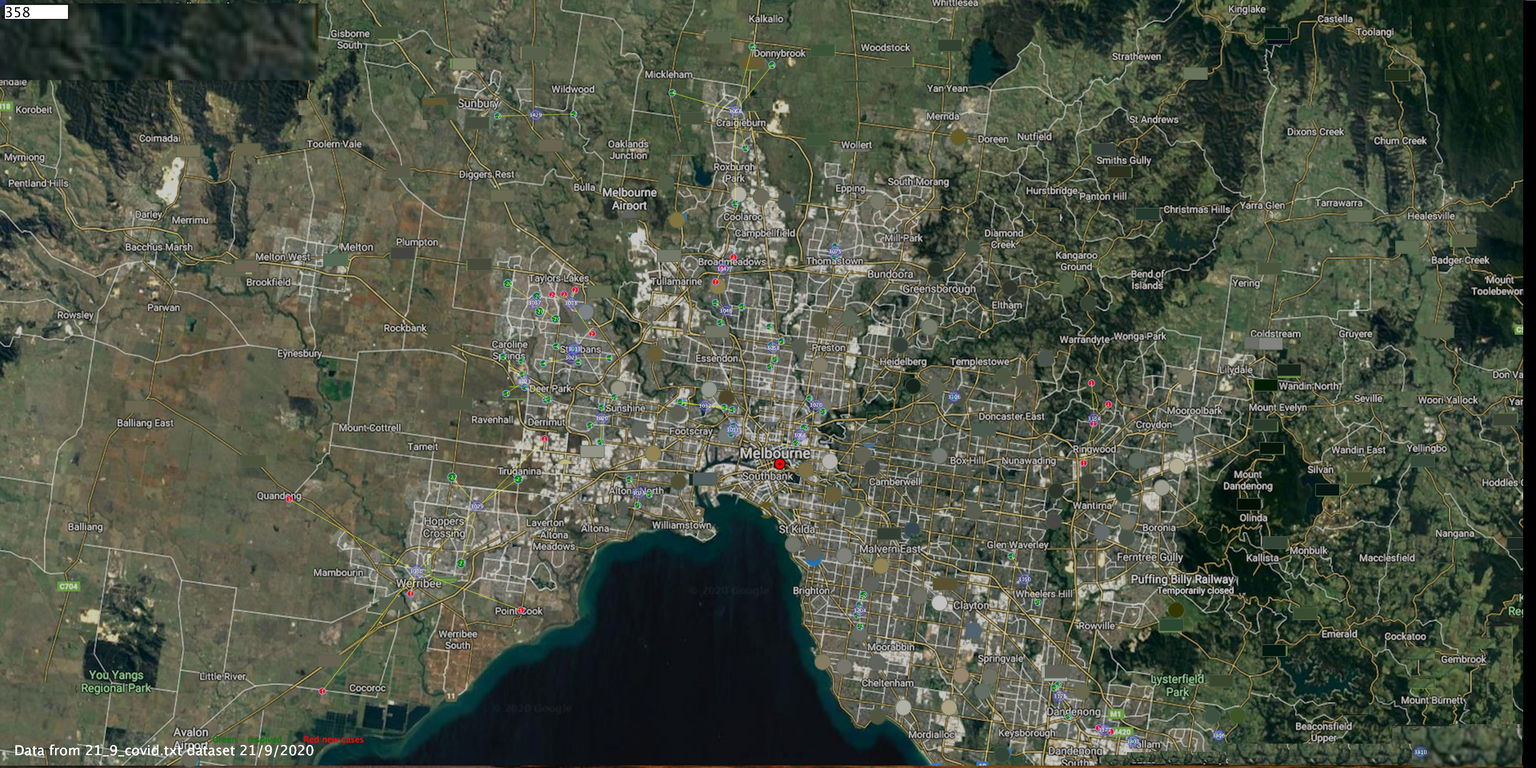
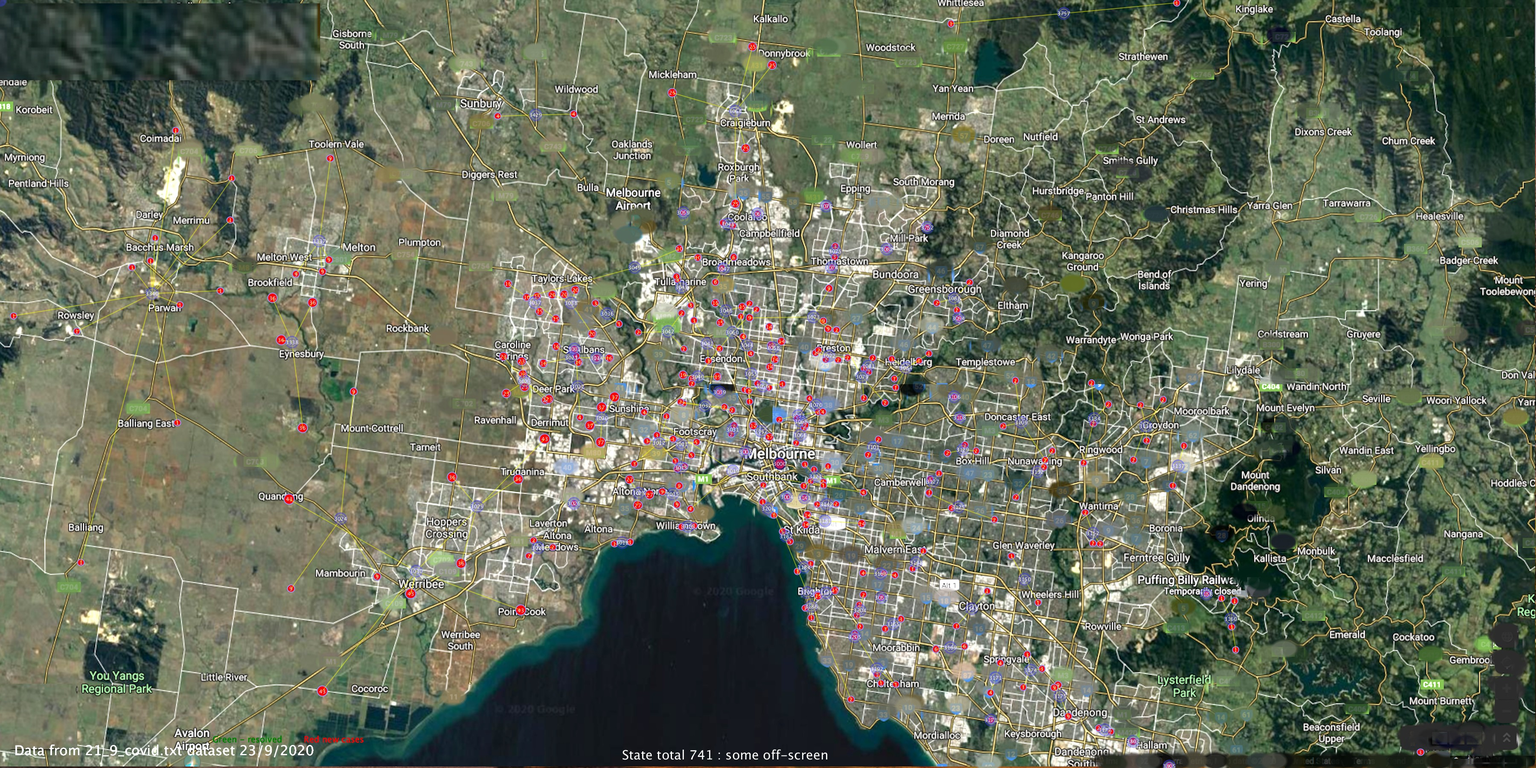
updates to covid 21/23

diff --git a/covid/23_9_covid.html b/covid/23_9_covid.html
@@ -1,4 +1,4 @@
-<!DOCTYPE HTML> <html><head><title>HTML Version of Covid postcodes</title><meta http-equiv="Content-Type" content="text/html; charset=iso-8859-1"</head><body><img src="https://trevorblum.name/covid/23_9_COVID19 Data Viz Postcode data - postcode.csv.jpg"alt="Can't find "https://trevorblum.name/1_9_covid by postcode.jpg"/*<img src="https://trevorblum.name/difference.jpg" alt="Shapes not found" */usemap="#shapesmap"> <map name="shapesmap"> 
+<!DOCTYPE HTML> <html><head><title>HTML Version of Covid postcodes</title><meta http-equiv="Content-Type" content="text/html; charset=iso-8859-1"</head><body><img src="https://trevorblum.name/covid/23_9_covid.jpg"alt="Can't find "https://trevorblum.name/1_9_covid by postcode.jpg"/*<img src="https://trevorblum.name/difference.jpg" alt="Shapes not found" */usemap="#shapesmap"> <map name="shapesmap"> 
 <area shape="circle" coords=" 3329,1763,10" href="javascript:alert('3810 PAKENHAM UPPER : Active 3');" style="width:1000px;" alt="3810.jpg">
 <area shape="circle" coords=" 2740,1796,10" href="javascript:alert('3805 FOUNTAIN GATE : Active 7');" style="width:1000px;" alt="3805.jpg">
 <area shape="circle" coords=" 2655,1738,10" href="javascript:alert('3803 HALLAM : Active 5');" style="width:1000px;" alt="3803.jpg">
